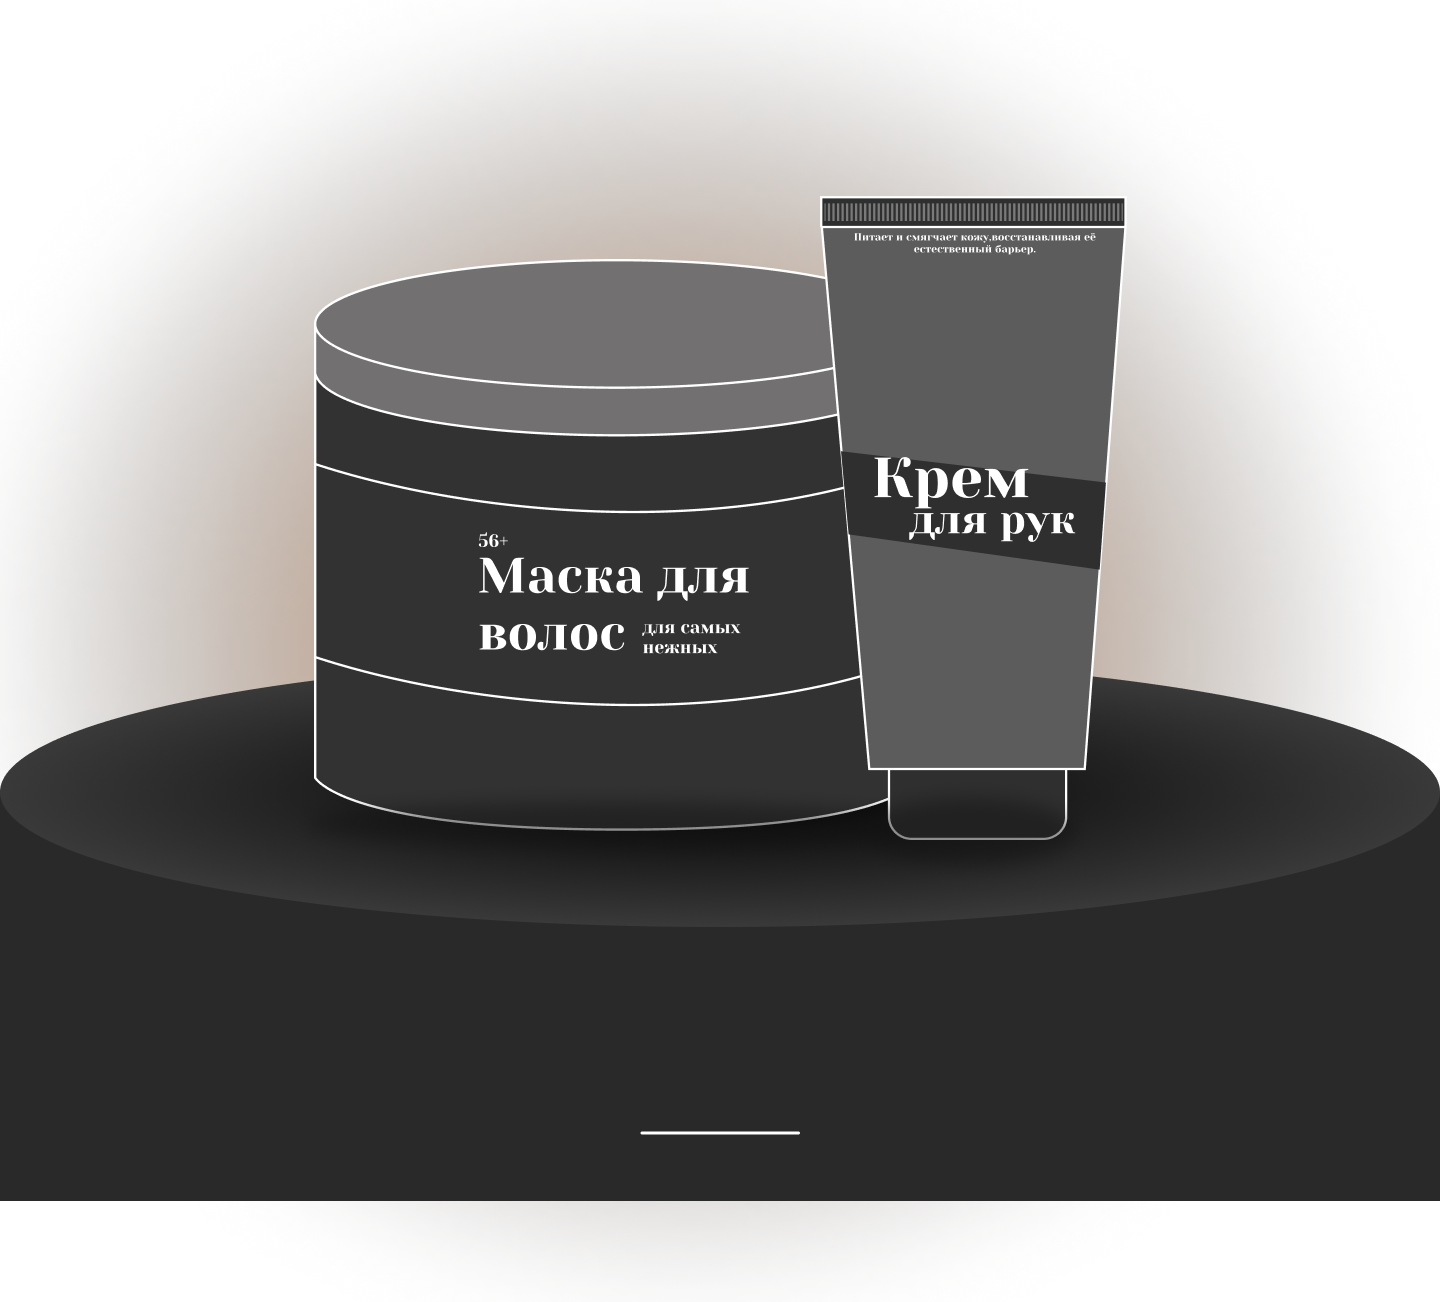
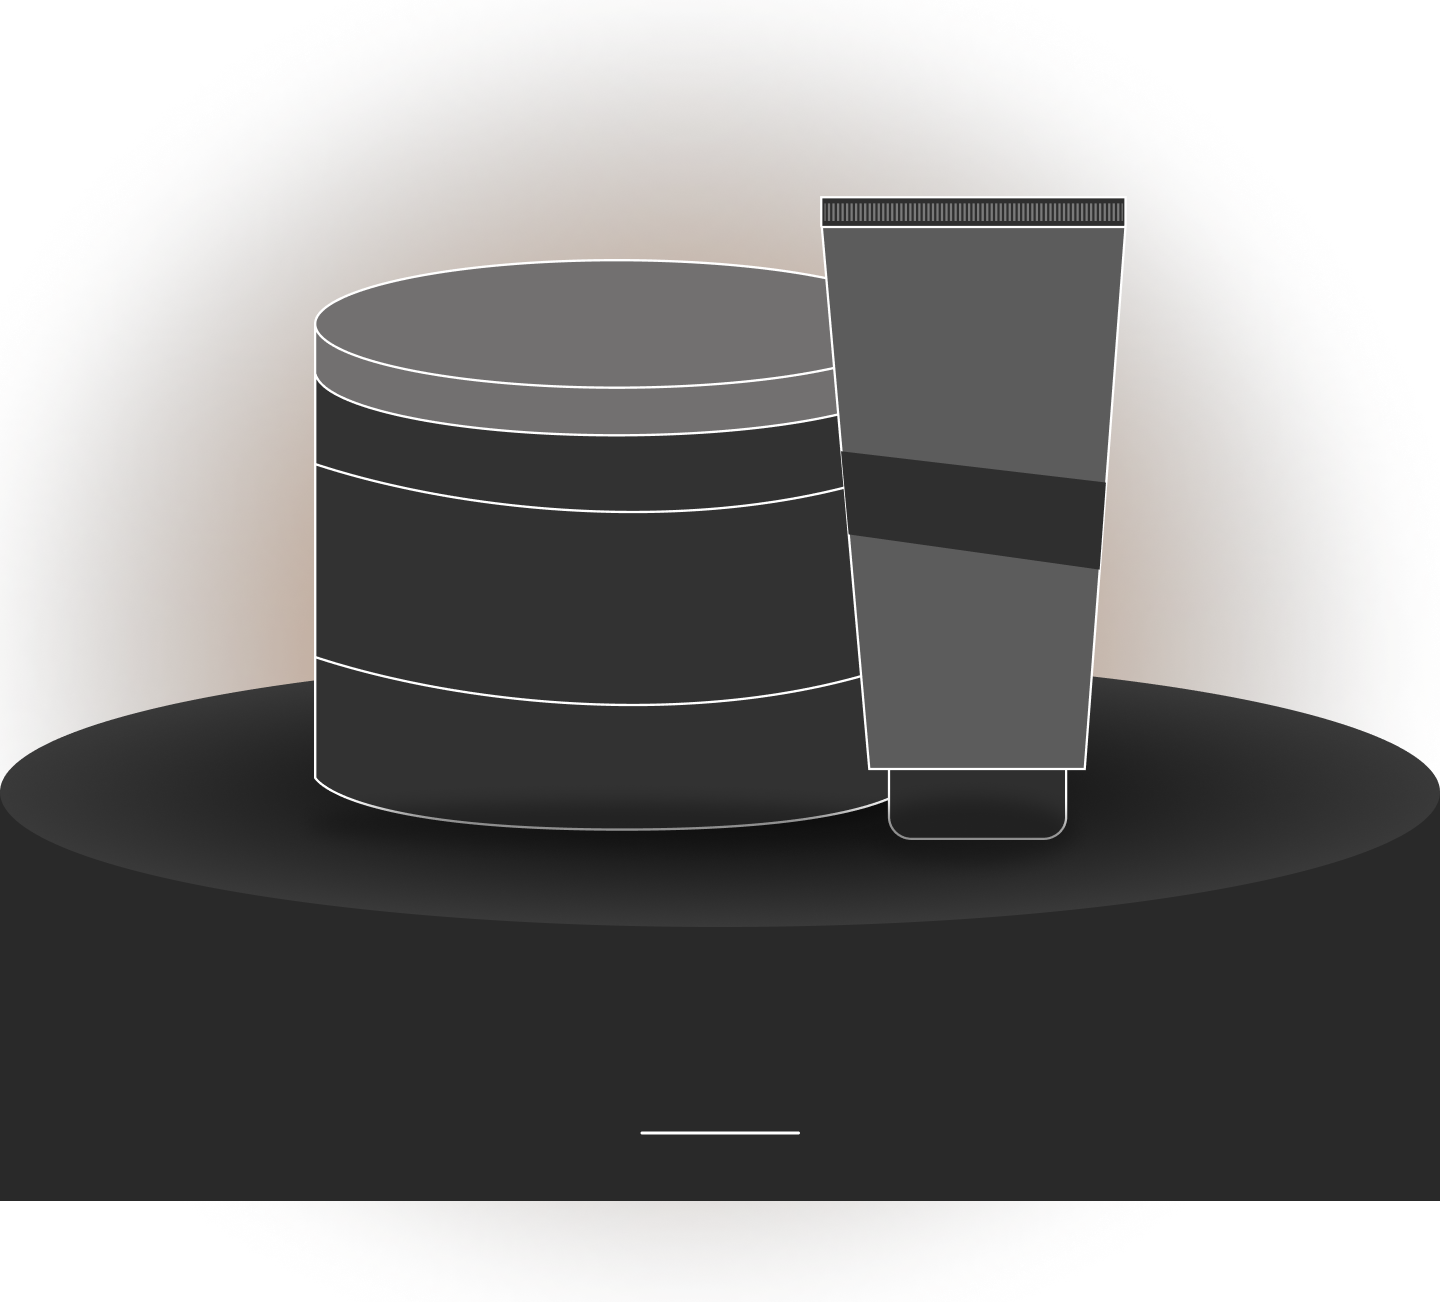
между в текст перевел

Changed region(s): [[0.3125, 0.4301, 0.5312, 0.5223], [0.5938, 0.3379, 0.75, 0.4301], [0.6562, 0.1843, 0.7188, 0.2151]]

diff --git a/stylesheets/layout.css b/stylesheets/layout.css
@@ -277,3 +277,49 @@ body {
   left: 946px;
   position: absolute;
 }
+.masktxt1 {
+  color: #ffffff;
+  font-size: 50px;
+  width: 300px;
+  top: 3720px;
+  left: 478px;
+  line-height: 57px;
+  position: absolute;
+}
+
+.masktxt2 {
+  color: #ffffff;
+  font-size: 18px;
+  width: 31px;
+  top: 3685px;
+  left: 478px;
+  line-height: 57px;
+  position: absolute;
+}
+.masktxt3 {
+  color: #ffffff;
+  font-size: 18px;
+  width: 103px;
+  top: 3790px;
+  left: 642px;
+  line-height: 20px;
+  position: absolute;
+}
+.cremtxt1 {
+  color: #ffffff;
+  font-size: 58px;
+  width: 157px;
+  height: 67px;
+  top: 3622px;
+  left: 872px;
+  position: absolute;
+}
+.cremtxt2 {
+  color: #ffffff;
+  font-size: 42px;
+  width: 169px;
+  height: 48px;
+  top: 3672px;
+  left: 909px;
+  position: absolute;
+}

diff --git a/index.html b/index.html
@@ -96,6 +96,11 @@
       <div class="article5"><p>Применение</p></div>
       <div class="txt8"><p>Цуканов Михаил</p></div>
       <div class="txt9"><p>Б24УКИ_СЦП</p></div>
+      <div class="masktxt1"><p>Маска для волос</p></div>
+      <div class="masktxt2"><p>56+</p></div>
+      <div class="masktxt3"><p>для самых нежных</p></div>
+      <div class="cremtxt1"><p>Крем</p></div>
+      <div class="cremtxt2"><p>для рук</p></div>
     </section>
 
     <section class="section2"></section>
